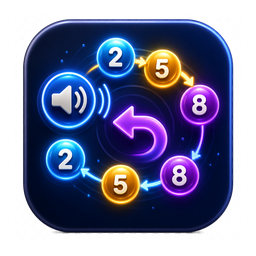
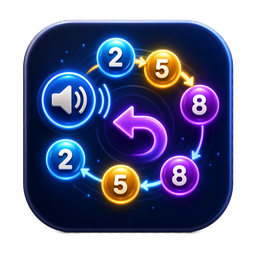
fix(mot+icone): arena bem maior + limpa moldura do ícone do Span Inverso (v2.46.2)
- Rastreamento de Objetos: a arena agora cresce para ocupar o espaço da
  tela (largura E altura da viewport), até 1120px, contêiner 1180 e os
  elementos de UI limitados a 760px. No desktop fica bem maior — o
  rastreamento visual deixa de ser fácil pelo espaço apertado.
- Ícone "Span Numérico Auditivo Inverso": removida a moldura quadriculada
  (xadrez) que estava desenhada em volta — os cantos agora são
  transparentes de verdade, igual aos demais ícones.

Claude-Session: https://claude.ai/code/session_017TB3T4Gdep7KhnU5KfbJ7D

diff --git a/components/exercises/attention/MOT.tsx b/components/exercises/attention/MOT.tsx
@@ -19,8 +19,9 @@ interface MOTProps {
 // +1 alvo, +velocidade... (começa com 2 alvos). Velocidade sobe suave (nada absurdo).
 
 const BALL_RADIUS = 26;
-const MAX_W = 640;    // largura máxima da arena (desktop); no celular ocupa a largura toda
-const ASPECT = 0.82;  // altura = largura × 0.82 (arena mais LARGA que alta)
+const MAX_W = 1120;      // arena GRANDE no desktop; adapta ao espaço no tablet/celular
+const ASPECT = 0.72;     // altura = largura × 0.72 (arena ampla, mais larga que alta)
+const RESERVED_H = 240;  // altura reservada p/ header + rótulo + botão; o resto vira arena
 const MAX_TARGETS = 6;
 // A arena usa COORDENADAS REAIS em px (medidas da tela), sem escala CSS — assim o
 // clamp da física é exatamente a borda visível e a bola nunca ultrapassa o quadro.
@@ -238,13 +239,18 @@ export function MOT({ difficulty, theme, onComplete }: MOTProps) {
     const el = stageWrapRef.current;
     if (!el) return;
     const compute = () => {
-      const w = Math.max(240, Math.min(MAX_W, Math.floor(el.clientWidth)));
+      const availW = Math.floor(el.clientWidth);
+      const availH = Math.max(320, window.innerHeight - RESERVED_H);
+      // maior arena que cabe na LARGURA e na ALTURA da tela, mantendo a proporção
+      let w = Math.min(availW, Math.floor(availH / ASPECT));
+      w = Math.max(280, Math.min(MAX_W, w));
       setDims({ w, h: Math.round(w * ASPECT) });
     };
     compute();
     const ro = new ResizeObserver(compute);
     ro.observe(el);
-    return () => ro.disconnect();
+    window.addEventListener("resize", compute);
+    return () => { ro.disconnect(); window.removeEventListener("resize", compute); };
   }, []);
 
   const stopRaf = useCallback(() => {
@@ -392,10 +398,10 @@ export function MOT({ difficulty, theme, onComplete }: MOTProps) {
 
   return (
     <div className={`min-h-screen overflow-y-auto ${pal.bg}`}>
-      <div className="max-w-[680px] mx-auto px-4 py-5 flex flex-col items-center gap-4">
+      <div className="max-w-[1180px] mx-auto px-4 py-5 flex flex-col items-center gap-4">
 
         {/* Header */}
-        <div className={`w-full rounded-2xl p-4 ${pal.card}`}>
+        <div className={`w-full max-w-[760px] rounded-2xl p-4 ${pal.card}`}>
           <div className="flex justify-between items-center mb-2">
             <h2 className={`font-bold text-sm ${pal.title}`}>👁 Rastreamento de Objetos</h2>
           </div>
@@ -405,7 +411,7 @@ export function MOT({ difficulty, theme, onComplete }: MOTProps) {
         {/* Phase label */}
         <AnimatePresence mode="wait">
           <motion.div key={phase} initial={{ opacity: 0, y: -4 }} animate={{ opacity: 1, y: 0 }}
-            className={`w-full text-center py-2 px-4 rounded-xl font-bold text-sm ${
+            className={`w-full max-w-[760px] text-center py-2 px-4 rounded-xl font-bold text-sm ${
               phase === "memorize" ? (theme === "GAMIFIED" ? "bg-yellow-900/40 text-yellow-300" : "bg-yellow-50 text-yellow-800") :
               phase === "track" ? (theme === "GAMIFIED" ? "bg-blue-900/40 text-blue-300" : "bg-blue-50 text-blue-800") :
               (theme === "GAMIFIED" ? "bg-green-900/40 text-green-300" : "bg-green-50 text-green-800")
@@ -459,7 +465,7 @@ export function MOT({ difficulty, theme, onComplete }: MOTProps) {
         {/* Confirm button */}
         {phase === "identify" && roundScore === null && (
           <button onClick={handleConfirm}
-            className={`w-full py-3 rounded-xl font-bold text-sm ${pal.btn}`}
+            className={`w-full max-w-[760px] py-3 rounded-xl font-bold text-sm ${pal.btn}`}
             disabled={selected.size !== k}>
             {selected.size < k ? `Selecione mais ${k - selected.size} bola(s)` : "Confirmar →"}
           </button>
@@ -467,7 +473,7 @@ export function MOT({ difficulty, theme, onComplete }: MOTProps) {
 
         {roundScore !== null && (
           <motion.div initial={{ opacity: 0, scale: 0.8 }} animate={{ opacity: 1, scale: 1 }}
-            className={`w-full py-3 rounded-xl text-center font-bold text-sm ${
+            className={`w-full max-w-[760px] py-3 rounded-xl text-center font-bold text-sm ${
               roundScore === k ? (theme === "GAMIFIED" ? "bg-green-900/40 text-green-300" : "bg-green-100 text-green-800") :
               roundScore > 0 ? (theme === "GAMIFIED" ? "bg-yellow-900/40 text-yellow-300" : "bg-yellow-100 text-yellow-800") :
               (theme === "GAMIFIED" ? "bg-red-900/40 text-red-300" : "bg-red-100 text-red-800")
